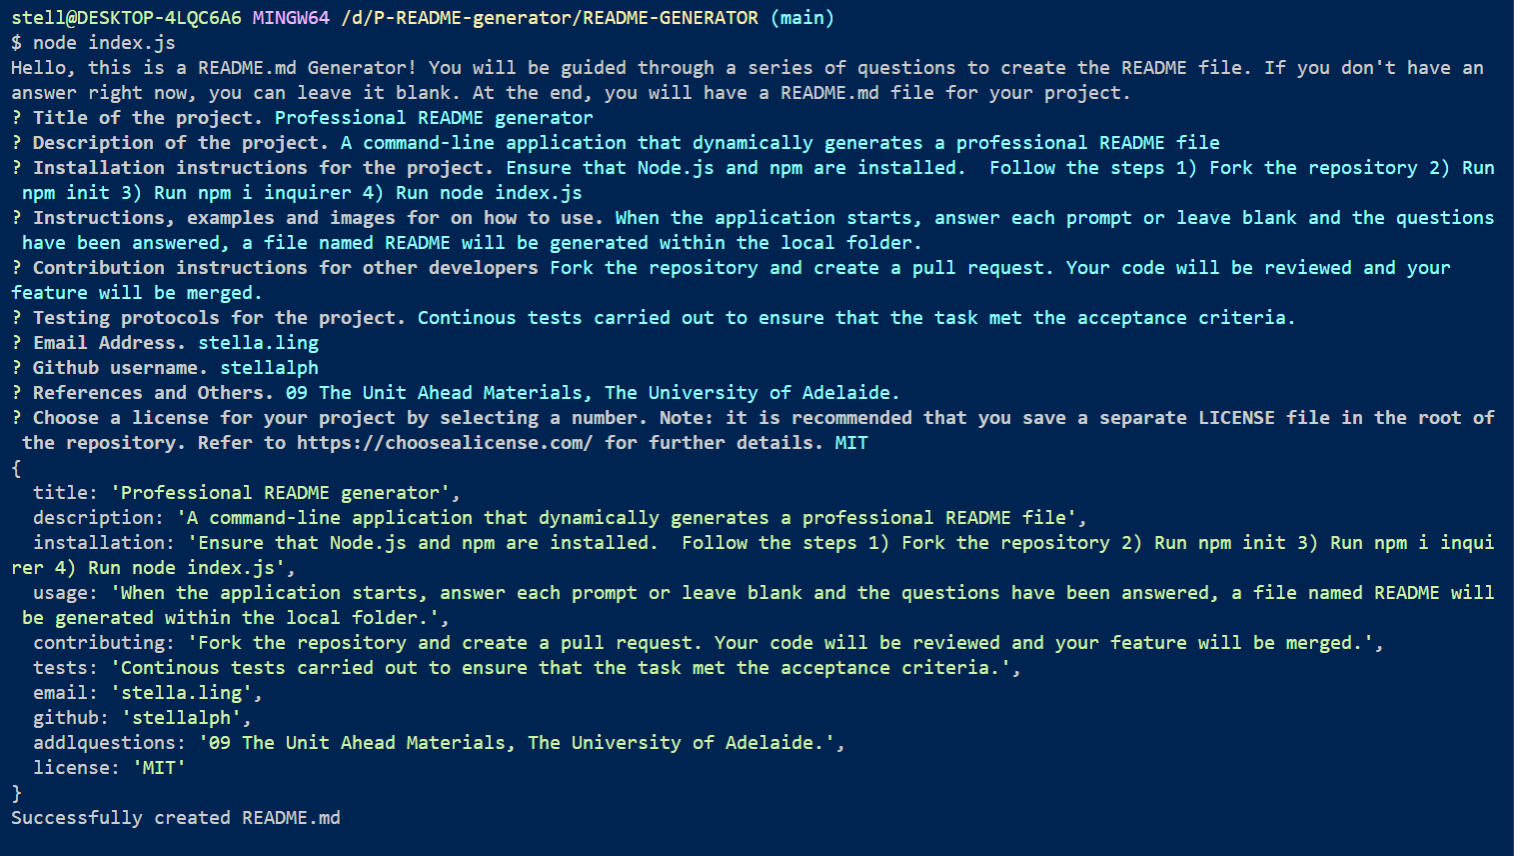
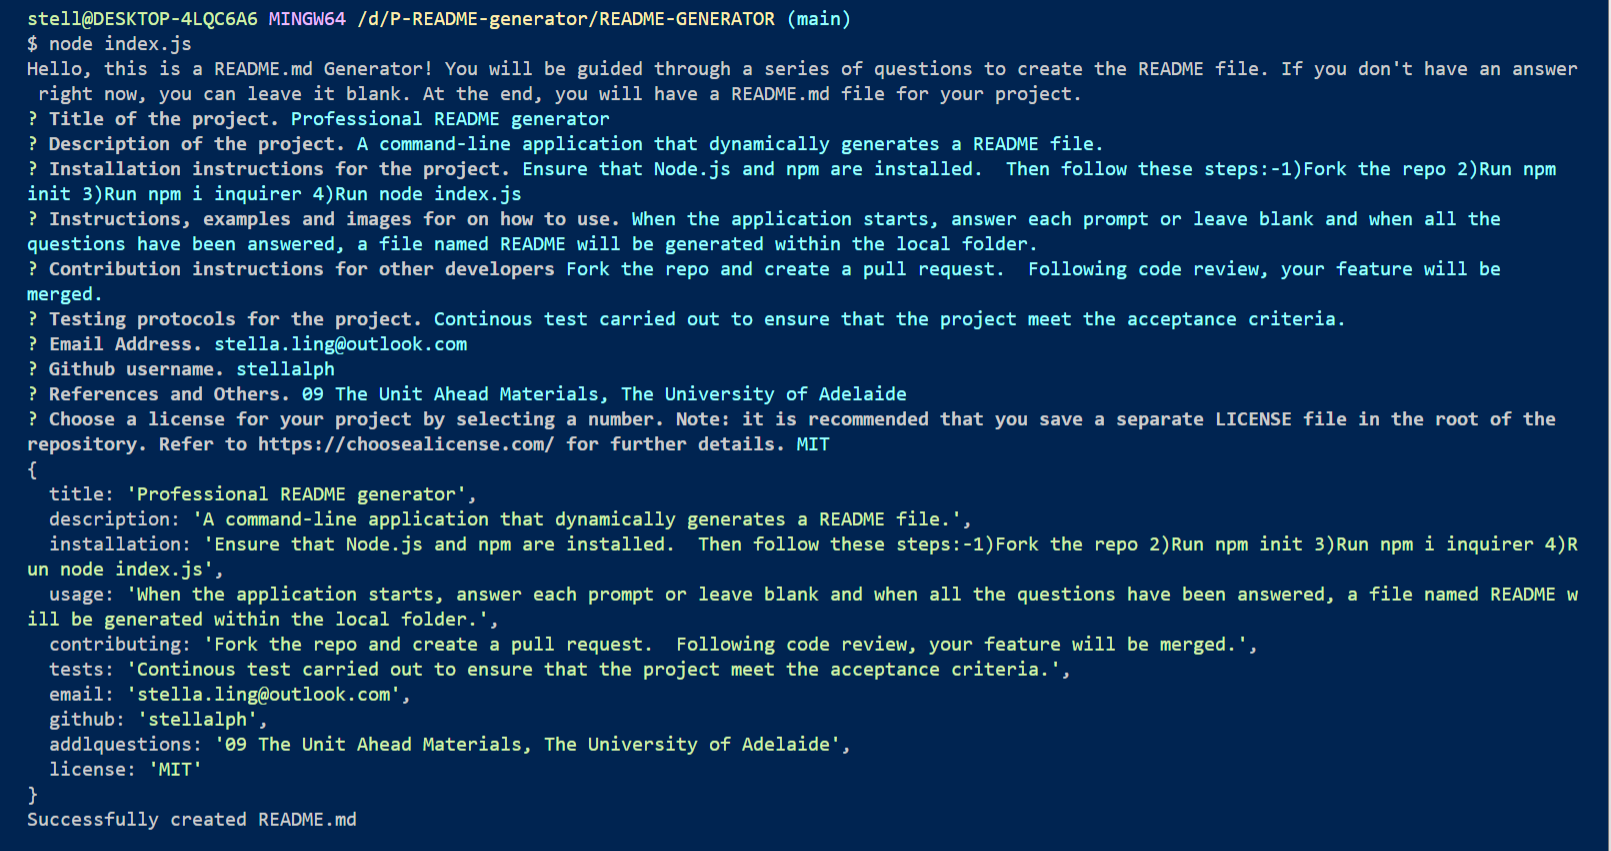
adding README and image01

Changed region(s): [[0.0, 0.0, 1.0, 1.0], [0.0, 0.9166, 0.2483, 0.9777]]

diff --git a/README.md b/README.md
@@ -3,7 +3,7 @@
 [![License: MIT](https://img.shields.io/badge/License-MIT-yellow.svg)](https://opensource.org/licenses/MIT)
 
 ## Description
-A command-line application that dynamically generates a professional README file.  
+A command-line application that dynamically generates a README file.  
 
 ## Table of Contents
 * [Installation](#installation)
@@ -14,29 +14,31 @@ A command-line application that dynamically generates a professional README file
 * [License](#license)
 
 ## Installation
-Ensure that Node.js and npm are installed.  Follow the steps
-1) Fork the repository
-2) Run npm init 
-3) Run npm i inquirer 
-4) Run node index.js 
+Ensure that Node.js and npm are installed.  Then follow these steps:
+
+1)Fork the repo 
+2)Run npm init 
+3)Run npm i inquirer 
+4)Run node index.js 
 
 ## Usage
-When the application starts, answer each prompt or leave blank and the questions have been answered, a file named README will be generated within the local folder.
+When the application starts, answer each prompt or leave blank and when all the questions have been answered, a file named README will be generated within the local folder.
 
 ## Contributing
-Fork the repository and create a pull request. Your code will be reviewed and your feature will be merged.
+Fork the repo and create a pull request.  Following code review, your feature will be merged.
 
 ## Tests
-Continous tests carried out to ensure that the task met the acceptance criteria.
+Continous test carried out to ensure that the project meet the acceptance criteria.
 
 ## Questions
 
-Contact email: stella.ling
+Contact email: stella.ling@outlook.com
 
 GitHub: [stellalph](https://github.com/stellalph)
 
-## References
-09 The Unit Ahead Materials, The University of Adelaide.
+# References
+
+09 The Unit Ahead Materials, The University of Adelaide
 
 ## License
   
